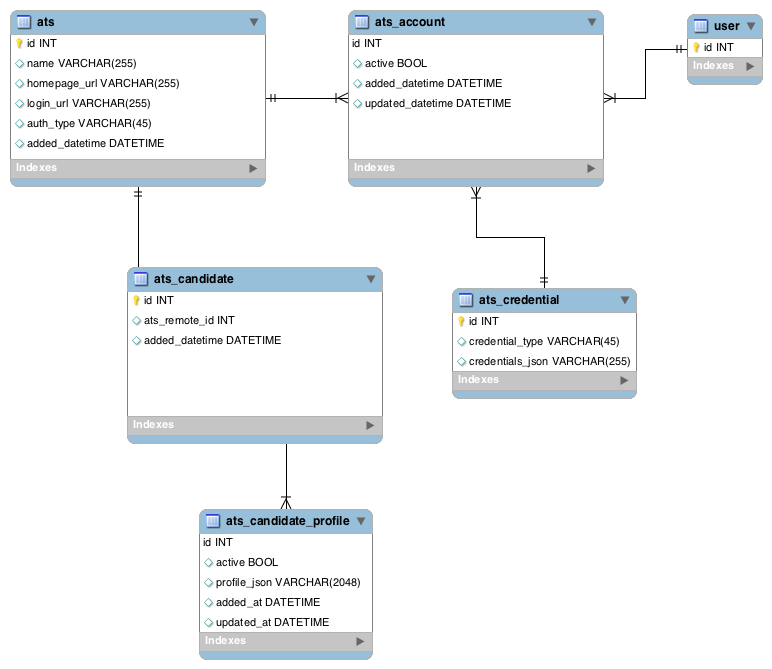
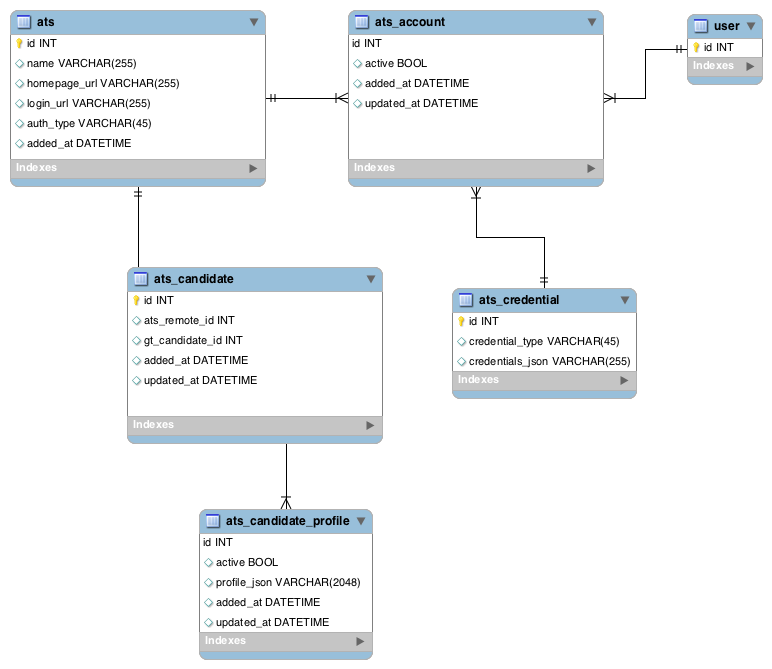
Formatting, name changes.

Changed region(s): [[0.1865, 0.4783, 0.342, 0.5979], [0.5285, 0.1196, 0.6528, 0.1794], [0.0933, 0.2093, 0.2176, 0.2392]]

diff --git a/ats_service/README.md b/ats_service/README.md
@@ -1,15 +1,11 @@
 # ATS Service
 *Flask micro service for interfacing with Applicant Tracking Systems.*
-## Authentication
-Like other getTalent services, ATS service uses oAuth2 for user authentication. See [AuthService](https://github.com/gettalent/talent-flask-services/blob/master/auth_service/README.md) for more information.
 
-Authentication to an ATS varies by ATS but is done using a user's account with that ATS.
-## APIs
-##### Version
-1
-#### API
+### API Version 1
 
-- List integrated ATS
+#### API List
+
+- List each ATS we have integrated with
     + `/v1/ats-list [GET]`
 - Register ATS account for a user with an ATS
     + `/v1/ats-register/:credentials [POST]`
@@ -24,8 +20,14 @@ Authentication to an ATS varies by ATS but is done using a user's account with t
 - Link getTalent candidate to ATS candidate
     + `/v1/ats-link/:candidate_id/:ats_candidate_id [PUT]`
 
-#### Database Schema
+#### Error Codes
+
+#### Authentication
+
+Like other getTalent services, ATS service uses oAuth2 for user authentication. See [AuthService](https://github.com/gettalent/talent-flask-services/blob/master/auth_service/README.md) for more information.
+
+Authentication to an ATS varies by ATS but is done using a user's account with that ATS.
+
+### Database Schema
 
 ![Image Missing](ATS_erd.png?raw=true "Database Schema")
-
-##### Custom Error Codes
